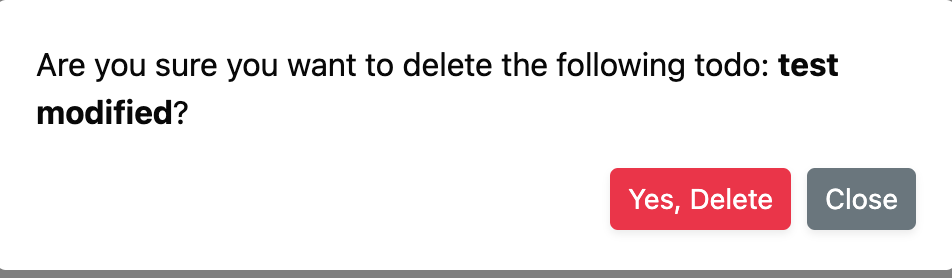
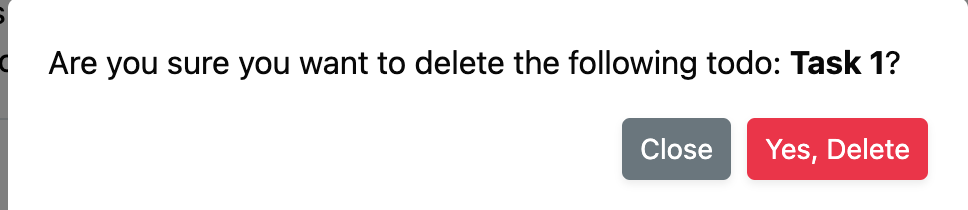
Update README

Changed region(s): [[0.0, 0.0, 1.0, 1.0], [0.6397, 0.5429, 0.9748, 0.8571]]

diff --git a/src/components/Staff/DeleteStaffModal.vue b/src/components/Staff/DeleteStaffModal.vue
@@ -9,10 +9,10 @@
       >?
     </p>
     <div class="d-flex justify-content-end">
-      <UButton class="btn btn-sm btn-secondary" @click="$emit('close-modal')"
+      <UButton class="btn btn-sm btn-secondary me-2" @click="$emit('close-modal')"
         >Close</UButton
       >
-      <UButton @click="deleteStaff" class="btn btn-sm btn-danger me-2"
+      <UButton @click="deleteStaff" class="btn btn-sm btn-danger"
         >Yes, Delete</UButton
       >
     </div>

diff --git a/README_ENG.md b/README_ENG.md
@@ -6,13 +6,14 @@
 1. Open the terminal in VS Code and clone the repository.
 
 ```bash
+cd path/to/your/directory
 git clone https://github.com/tsato21/todo-app-nuxt3.git
 ```
 
 2. Access the repository folder.
 
 ```bash
-cd path/to/your/directory
+cd todo-app-nuxt3
 ```
 
 3. Install Node Package Manager.
@@ -24,19 +25,58 @@ npm install
 4. Start the development server.
 
 ```bash
-# npm
 npm run dev
 ```
 
-5. Access the home page of this app on `http://localhost:3000`.
+5. Choose "⚫ Yes" for participation. (Only when displayed)
+```bash
+❯ Are you interested in participating?
+● Yes / ○ No
+```
+
+6. Access the home page of this app on `http://localhost:3000`.
 
 
 ## Usage
 
-### Manage Staff List
+### Managing Todo List
+This feature allows you to manage your todos. You can add, update, and delete todos, manage completion status, and filter the todos by their completion status.
+* Click "Home" on the top of the page to access the target page.
+
+#### Adding a Todo
+1. Click the "Add New Todo" button.
+2. Fill in the todo details in the adding screen and click "Add Todo".
+![Add Todo UI](/docs/assets/add-todo-ui.png)
+    * "Staff (optional)" becomes selectable by adding staff in the Staff List. (Explained in "Managing Staff List")
+3. The new todo will be automatically added to the todo list table.
+
+#### Updating a Todo
+1. Click the "Edit" button of the todo you want to update.
+2. Modify the todo details in the edit screen and click "Close".
+![Edit Todo UI](/docs/assets/edit-todo-ui.png)
+3. The updated todo will be automatically reflected in the todo list table.
+
+#### Deleting a Todo
+1. Click the "Delete" button of the todo you want to delete.
+2. Click "Yes, Delete" in the confirmation screen.
+![Delete Todo UI](/docs/assets/delete-todo-ui.png)
+3. The todo will be automatically removed from the todo list table.
+
+#### Toggling Todo Completion Status
+1. Click the checkbox of the todo you want to mark as completed or incomplete.
+2. The todo's completion status will be automatically updated, and this change will be reflected in the todo list table.
+![Toggle Status UI](/docs/assets/toggle-status-incomplete-ui.png)
+![Toggle Status UI](/docs/assets/toggle-status-complete-ui.png)
+
+#### Filtering Todos
+1. Click the "Incomplete", "All", or "Completed" button to filter the todos by their completion status.
+2. The todo list will be automatically updated to show only the todos that match the selected filter.
+![Status Filter UI](/docs/assets/status-filter-ui.png)
+
+### Managing Staff List
 If you would like to assign todos to certain staff, use this feature.
 * Reflected on dropdown list of staff in add/edit todo screen.
-* Click "Staff List" on the navbar to access the target page.
+* Click "Staff List" on the top of the page to access the target page.
 
 #### Adding Staff
 1. Input staff name and click "Add Staff".
@@ -45,70 +85,14 @@ If you would like to assign todos to certain staff, use this feature.
 
 #### Updating Staff Name
 1. Click "Edit" of a particular staff.
-2. Modify the staff name and click "Update Staff" in the update screen.
+2. Modify the staff name and click "Close" in the update screen.
 ![Edit Staff UI](/docs/assets/edit-staff-ui.png)
 3. The staff name in the table will be automatically modified.
-* This update will be reflected on staff information in the Todo list table.
+* This update will be reflected on staff information in the todo list table.
 
 #### Deleting Staff Name
 1. Click "Delete" of a particular staff.
 2. Click "Yes, Delete" in the confirmation screen.
 ![Delete Staff UI](/docs/assets/delete-staff-ui.png)
 3. The staff name in the table will be automatically deleted.
-    * This deletion will be reflected on staff information in the Todo list table.
-
-### Manage Todo List
-This feature allows you to manage your todos. You can add, update, and delete todos, manage completion status, and filter the todos by their completion status.
-* Click "Home" on the navbar to access the target page.
-
-#### Adding a Todo
-1. Click the "Add New Todo" button.
-2. Fill in the todo details in the adding screen and click "Add Todo".
-![Add Todo UI](/docs/assets/add-todo-ui.png)
-    * "Deadline" and "Staff" are optional and options of "Staff" are linked to "Staff List" table list.
-3. The new todo will be automatically added to the todo list.
-
-#### Updating a Todo
-1. Click the "Edit" button of the todo you want to update.
-2. Modify the todo details in the edit screen and click "Update Todo".
-![Edit Todo UI](/docs/assets/edit-todo-ui.png)
-3. The updated todo will be automatically reflected in the todo list.
-
-#### Deleting a Todo
-1. Click the "Delete" button of the todo you want to delete.
-2. Confirm your action in the confirmation screen by clicking "Yes, Delete".
-![Delete Todo UI](/docs/assets/delete-todo-ui.png)
-3. The todo will be automatically removed from the todo list.
-
-#### Toggling Todo Completion Status
-1. Click the checkbox of the todo you want to mark as completed or incomplete.
-![Toggle Status UI](/docs/assets/toggle-status-ui.png)
-2. The todo's completion status will be automatically updated, and this change will be reflected in the todo list.
-
-#### Filtering Todos
-1. Click the "Incomplete", "All", or "Completed" button to filter the todos by their completion status.
-2. The todo list will be automatically updated to show only the todos that match the selected filter.
-![Status Filter UI](/docs/assets/status-filter-ui.png)
-
-
-## Known Issues and Limitations
-
-### Styles Change of Elements within UForm between Daytime and Evening
-During the daytime, the UI within UForm such as UInput and UButton works as expected (as shown below).
-![Show daytime UForm Contents](/docs/assets/daytime-form-ui.png)
-However, in the evening, the style changes automatically, as show below. This makes it difficult for users to use the app. 
-![Show evening UForm Contents](/docs/assets/evening-form-ui.png)
-This issue will be fixed in a future update.
-
-### Setting Dropdown Styles for Edit/Delete Buttons
-Aimed UI for edit/delete button is as below, using Bootstrap dropdown.
-![Show desired edit/delete button UI](/docs/assets/desired-update-delete-ui.png)
-
-However, the current UI does not support the use of dropdown menus as shown below.
-![Show current edit/delete button UI](/docs/assets/current-update-delete-ui.png)
-This issue will be fixed in a future update.
-
-
-## Future Work
-
-Including the issues mentioned above, we plan to make corrections to the areas of improvement for this app.
+    * This deletion will be reflected on staff information in the todo list table.
